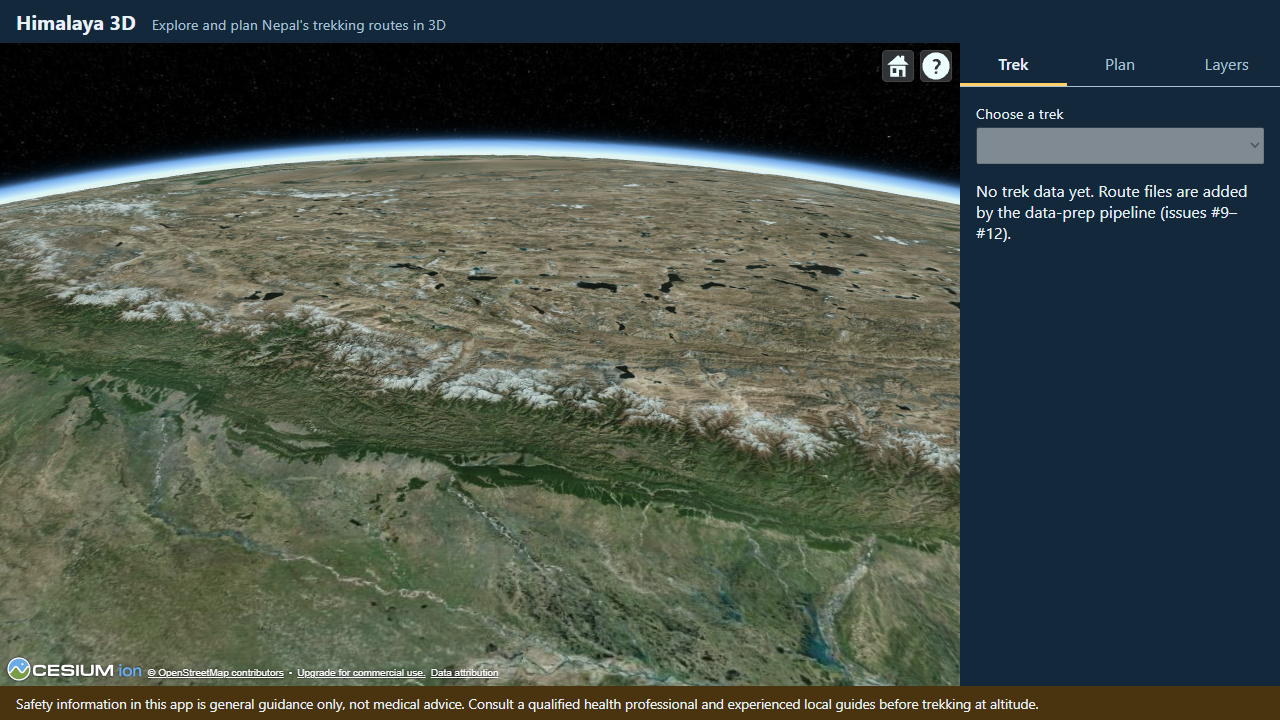
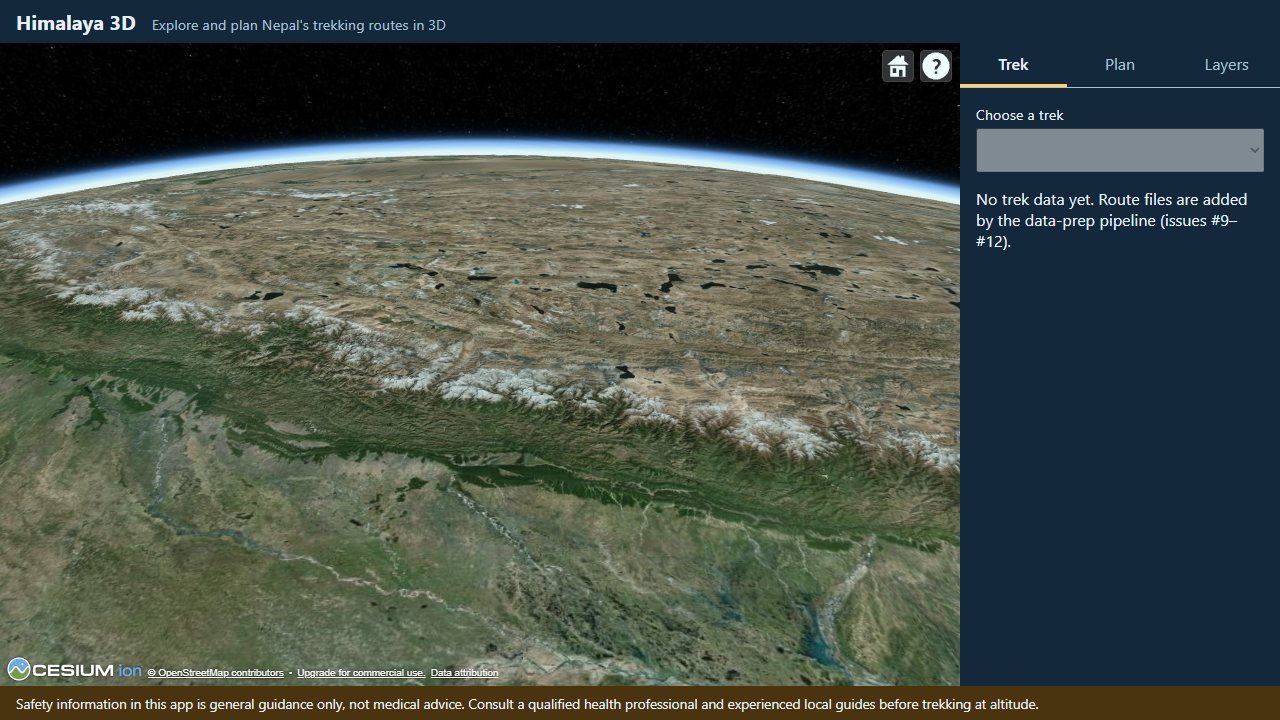
fix(ui): apply review — newest-request check, tab tests, touch targets
- useRoutes: number every select() call and use only the newest answer. Comparing
  trek ids let both downloads through when the same trek was chosen again while
  the first was still running (B -> A -> B).
- e2e: hold downloads back and release them out of order; check the hidden Trek
  panel stays attached; check exactly one tab is selected and a Tab stop.
- SidePanel: panels without controls get tabIndex 0; doc comments; explain why
  panels are hidden, not removed.
- 44 px minimum height for tabs and the selector (ui-design rule 6); stop list
  without 1. 2. 3. markers (they clashed with day numbers).
- plan.comingSoon: #24 adds acclimatization warnings (the checker exists).
- e2e/screenshot.ts: wait until no tile arrived for 2 s before a docs screenshot;
  screenshots re-captured with terrain loaded.

Refs #16

Changed region(s): [[0.75, 0.2139, 1.0, 0.3361], [0.75, 0.1528, 0.8438, 0.1833], [0.75, 0.0917, 0.8438, 0.1222]]

diff --git a/app/e2e/trek-selector.spec.ts b/app/e2e/trek-selector.spec.ts
@@ -10,6 +10,7 @@
 import { readFileSync } from 'node:fs';
 import { fileURLToPath } from 'node:url';
 import { expect, test, type Page } from '@playwright/test';
+import { saveScreenshot } from './screenshot';
 
 const fixture = (name: string) =>
   readFileSync(fileURLToPath(new URL(`./fixtures/${name}`, import.meta.url)), 'utf-8');
@@ -52,7 +53,9 @@ test('choose another trek with the keyboard; the stop list and globe follow', as
   const selector = page.getByLabel('Choose a trek');
   await expect(selector.getByRole('option')).toHaveText(['Test Route', 'Second Test Route']);
   await selector.focus();
-  await page.keyboard.press('ArrowDown'); // a closed native <select> changes on ArrowDown
+  // On Windows and Linux (CI), ArrowDown on a closed native <select> changes its value at once.
+  // (On macOS it opens the pop-up list instead; our tests run Chromium on Windows and Linux.)
+  await page.keyboard.press('ArrowDown');
 
   await expect(selector).toHaveValue('second-route');
   await expect(status).toHaveText(
@@ -67,9 +70,7 @@ test('choose another trek with the keyboard; the stop list and globe follow', as
   await expect(status).toHaveAttribute('data-drawn-stops', '3', { timeout: 30_000 });
 
   if (process.env.UPDATE_SCREENSHOTS === '1') {
-    await page.waitForLoadState('networkidle');
-    await page.waitForTimeout(2500); // let the 1.5 s camera flight to the route finish
-    await page.screenshot({ path: SCREENSHOT });
+    await saveScreenshot(page, SCREENSHOT);
   }
 
   // Back to the first trek: it comes from the cache, so it is not downloaded a second time.
@@ -101,6 +102,57 @@ test('a trek that fails to load clears the map instead of showing the old trek',
   await expect(status).toHaveAttribute('data-drawn-stops', '2', { timeout: 30_000 });
 });
 
+test('a download that finishes late never replaces the newest choice', async ({ page }) => {
+  await serveFixtures(page);
+  // Hold every request for second-route.geojson until the test calls its release function.
+  // (Playwright uses the route registered LAST first, so this one wins over serveFixtures.)
+  const held: (() => void)[] = [];
+  await page.route('**/data/routes/second-route.geojson', async (route) => {
+    await new Promise<void>((release) => held.push(release));
+    await route.fulfill({
+      contentType: 'application/geo+json',
+      body: fixture('second-route.geojson'),
+    });
+  });
+  /** Release held download number `n` and give the app time to (wrongly) use the answer. */
+  const answer = async (n: number) => {
+    const response = page.waitForResponse('**/second-route.geojson');
+    held[n]();
+    await response;
+    await page.waitForTimeout(500);
+  };
+
+  await page.goto('./');
+  const status = page.getByTestId('route-status');
+  const selector = page.getByLabel('Choose a trek');
+  await expect(status).toHaveAttribute('data-drawn-stops', '2', { timeout: 30_000 });
+
+  await selector.selectOption('second-route'); // download 0 starts (held)
+  await expect.poll(() => held.length).toBe(1);
+  await selector.selectOption('test-route'); // cached: shown at once
+  await selector.selectOption('second-route'); // the same trek again: download 1 (held)
+  await expect.poll(() => held.length).toBe(2);
+  await expect(status).toHaveText('Loading treks…');
+
+  // The OLD download answers first. Its trek id matches the selection, but it is not the newest
+  // request, so it must be ignored: the app keeps waiting for download 1.
+  await answer(0);
+  await expect(status).toHaveText('Loading treks…');
+  await expect(status).toHaveAttribute('data-drawn-stops', '0');
+
+  // The user goes back to Test Route, THEN download 1 answers: it must not take over the map.
+  await selector.selectOption('test-route');
+  await expect(status).toHaveAttribute('data-drawn-stops', '2', { timeout: 30_000 });
+  await answer(1);
+  await expect(status).toContainText('Showing Test Route');
+  await expect(status).toHaveAttribute('data-drawn-stops', '2');
+
+  // The late answers were still cached, so choosing the trek now needs no third download.
+  await selector.selectOption('second-route');
+  await expect(status).toHaveAttribute('data-drawn-stops', '3', { timeout: 30_000 });
+  expect(held).toHaveLength(2);
+});
+
 test('side-panel tabs follow the WAI-ARIA tabs pattern', async ({ page }) => {
   await serveFixtures(page);
   await page.goto('./');
@@ -116,16 +168,21 @@ test('side-panel tabs follow the WAI-ARIA tabs pattern', async ({ page }) => {
   await expect(tab('Plan')).toHaveAttribute('tabindex', '-1');
 
   await tab('Trek').focus();
+  /** `name` is focused and selected, its panel shows, and it is the ONLY selected tab stop. */
   const expectSelected = async (name: string) => {
     await expect(tab(name)).toBeFocused();
     await expect(tab(name)).toHaveAttribute('aria-selected', 'true');
     await expect(page.getByRole('tabpanel', { name })).toBeVisible();
+    await expect(tablist.locator('[aria-selected="true"]')).toHaveCount(1);
+    await expect(tablist.locator('[tabindex="0"]')).toHaveCount(1);
   };
 
   await page.keyboard.press('ArrowRight');
   await expectSelected('Plan');
   await expect(page.getByRole('tabpanel', { name: 'Plan' })).toContainText('issue #24');
-  await expect(page.getByRole('tabpanel', { name: 'Trek' })).toBeHidden();
+  // The Trek panel is hidden but still in the page (aria-controls must point at something).
+  await expect(page.locator('#panel-trek')).toBeAttached();
+  await expect(page.locator('#panel-trek')).toBeHidden();
 
   await page.keyboard.press('End');
   await expectSelected('Layers');
@@ -136,10 +193,16 @@ test('side-panel tabs follow the WAI-ARIA tabs pattern', async ({ page }) => {
   await page.keyboard.press('Home');
   await expectSelected('Trek');
 
-  // The Trek panel kept its state while hidden (it is hidden, not removed).
   await expect(page.getByTestId('route-status')).toContainText('Showing Test Route');
 
   // Tab leaves the tab row and goes into the panel, to the trek selector.
   await page.keyboard.press('Tab');
   await expect(page.getByLabel('Choose a trek')).toBeFocused();
+
+  // A panel with no controls (Plan) is itself the next Tab stop, so its text is not skipped.
+  await page.keyboard.press('Shift+Tab');
+  await page.keyboard.press('ArrowRight');
+  await expectSelected('Plan');
+  await page.keyboard.press('Tab');
+  await expect(page.getByRole('tabpanel', { name: 'Plan' })).toBeFocused();
 });

diff --git a/app/src/features/routes/useRoutes.ts b/app/src/features/routes/useRoutes.ts
@@ -3,10 +3,11 @@
  * Owner: Sparsh Gorkhali (loading), Dipson Gurung (trek selector, #16). Related FR: FR2.
  *
  * - On start-up it downloads data/routes/index.json and selects the first route.
- * - select(id) is called by the trek selector: it takes that route from the cache if it was
- *   shown before, otherwise it clears the map and downloads it.
- * - If the user picks another route before a download finishes, the late answer is ignored, so
- *   the map always shows the route that is selected in the list.
+ * - select(id) is called by the trek selector: if that route file was downloaded before it comes
+ *   from the cache; otherwise the map is cleared and the file is downloaded.
+ * - Every select() call gets a number. Only the answer to the NEWEST call is used, so a download
+ *   that finishes late (the user has chosen something else since) never replaces what is on the
+ *   map, even when the user chose the same trek again in between (ADR-026).
  */
 import { useCallback, useEffect, useRef, useState } from 'react';
 import { fetchRoute, fetchRouteIndex, type RouteSummary } from './loadRoutes';
@@ -26,6 +27,10 @@ export interface RoutesState {
   select: (id: string) => void;
 }
 
+/**
+ * Loads the route index, selects the first route, and lets the trek selector choose another.
+ * App calls it once and passes the result to RouteLayer (the globe) and TrekPanel (the panel).
+ */
 export function useRoutes(): RoutesState {
   const [status, setStatus] = useState<RoutesStatus>('loading');
   const [routes, setRoutes] = useState<RouteSummary[]>([]);
@@ -34,10 +39,14 @@ export function useRoutes(): RoutesState {
 
   // useRef keeps values between renders without causing a re-render when they change.
   const cache = useRef(new Map<string, RouteFile>()); // route files already downloaded
-  const latestRequest = useRef<string | null>(null); // the id the user asked for last
+  const latestRequest = useRef(0); // number of the newest select() call
 
+  // useCallback with [] keeps `select` the SAME function on every render. That matters because
+  // the effect below lists it as a dependency (the hooks lint rule requires that): a new function
+  // each render would re-run the effect and download the index again and again.
   const select = useCallback((id: string) => {
-    latestRequest.current = id;
+    const request = latestRequest.current + 1;
+    latestRequest.current = request;
     setSelectedId(id);
 
     const cached = cache.current.get(id);
@@ -57,18 +66,20 @@ export function useRoutes(): RoutesState {
         // Check the file's shape HERE, inside try: if it were only discovered while rendering,
         // the error would blank the whole page (including the medical disclaimer).
         routeDrawing(file, 'en');
-        cache.current.set(id, file);
-        if (latestRequest.current !== id) return; // the user has picked another route since
+        cache.current.set(id, file); // a good file is worth keeping even if it arrived late
+        if (latestRequest.current !== request) return; // a newer select() call has happened
         setCurrent(file);
         setStatus('ready');
       } catch (error) {
         console.error(`Could not load route ${id}`, error);
-        if (latestRequest.current === id) setStatus('error');
+        if (latestRequest.current === request) setStatus('error');
       }
     }
     void load();
   }, []);
 
+  // Runs once after the first render (twice in development, where React's StrictMode mounts,
+  // cleans up and mounts again to find missing cleanups; the `cancelled` flag makes that safe).
   useEffect(() => {
     let cancelled = false; // set by the cleanup, so a late answer after unmount is ignored
     fetchRouteIndex()
@@ -84,7 +95,7 @@ export function useRoutes(): RoutesState {
       });
     return () => {
       cancelled = true;
-      latestRequest.current = null; // also ignore any route download still running
+      latestRequest.current += 1; // also ignore any route download still running
     };
   }, [select]);
 

diff --git a/app/src/ui/SidePanel.tsx b/app/src/ui/SidePanel.tsx
@@ -7,7 +7,13 @@
  *   aria-controls pointing at its panel; each panel has role="tabpanel" and aria-labelledby;
  * - only the selected tab is reachable with the Tab key (tabIndex 0, the others -1); inside the
  *   row, ArrowLeft/ArrowRight move between tabs (wrapping round) and Home/End jump to the ends
- *   (see tabKeys.ts). Moving with the keys also selects the tab ("automatic activation").
+ *   (see tabKeys.ts). Moving with the keys also selects the tab ("automatic activation");
+ * - a panel with no control of its own (today Plan and Layers) gets tabIndex 0, so Tab from its
+ *   tab still lands somewhere and a screen reader reads the panel.
+ *
+ * Panels that are not selected are HIDDEN (the `hidden` attribute), not removed: every tab's
+ * aria-controls must point at an element that exists, and a panel keeps its state (for example
+ * a half-filled form) while the user looks at another tab.
  */
 import { useRef, useState, type KeyboardEvent, type ReactNode } from 'react';
 import type { MessageKey } from '../i18n';
@@ -18,6 +24,8 @@ export interface PanelTab {
   id: 'trek' | 'plan' | 'layers';
   labelKey: MessageKey;
   content: ReactNode;
+  /** True if the panel starts with a control (select, button…) that Tab can reach. */
+  hasControls: boolean;
 }
 
 interface SidePanelProps {
@@ -25,6 +33,7 @@ interface SidePanelProps {
   language: Language;
 }
 
+/** The tab row plus one panel per tab; remembers which tab is selected. */
 export function SidePanel({ tabs, language }: SidePanelProps) {
   const [selected, setSelected] = useState(0);
   const buttons = useRef<(HTMLButtonElement | null)[]>([]);
@@ -71,6 +80,7 @@ export function SidePanel({ tabs, language }: SidePanelProps) {
           role="tabpanel"
           id={`panel-${tab.id}`}
           aria-labelledby={`tab-${tab.id}`}
+          tabIndex={tab.hasControls ? undefined : 0}
           hidden={index !== selected}
           className="tab-panel"
         >

diff --git a/app/e2e/screenshot.ts b/app/e2e/screenshot.ts
@@ -1,0 +1,34 @@
+/**
+ * screenshot.ts — helper for the e2e tests that save docs screenshots (only with UPDATE_SCREENSHOTS=1).
+ * Owner: Sparsh Gorkhali (testing lead). Related: ADR-015.
+ *
+ * Cesium keeps downloading terrain and imagery tiles after the camera moves. A screenshot taken
+ * too early shows a blurry, flat globe. Playwright's waitForLoadState('networkidle') does not
+ * help here: once the page has been idle a single time it returns at once, even if the camera
+ * flight has started new downloads since. So we watch the responses ourselves.
+ */
+import type { Page } from '@playwright/test';
+
+/**
+ * Wait until the page has received no network response for `quietMs` milliseconds,
+ * but never longer than `maxMs` in total (so a busy network cannot hang the test).
+ */
+export async function waitForQuietNetwork(page: Page, quietMs = 2000, maxMs = 30_000) {
+  let lastResponse = Date.now();
+  const onResponse = () => {
+    lastResponse = Date.now();
+  };
+  page.on('response', onResponse);
+  const start = Date.now();
+  while (Date.now() - lastResponse < quietMs && Date.now() - start < maxMs) {
+    await page.waitForTimeout(250);
+  }
+  page.off('response', onResponse);
+}
+
+/** Let the 1.5 s camera flight finish, wait for the tiles it asked for, then save the picture. */
+export async function saveScreenshot(page: Page, path: string) {
+  await page.waitForTimeout(2000);
+  await waitForQuietNetwork(page);
+  await page.screenshot({ path });
+}

diff --git a/app/src/features/routes/TrekPanel.tsx b/app/src/features/routes/TrekPanel.tsx
@@ -27,6 +27,7 @@ function statusText(routes: RoutesState, language: Language): string {
   return t('routes.showing', language, { name: drawing.name, count: drawing.stops.length });
 }
 
+/** The Trek tab: trek selector, status line and the selected trek's overnight stops. */
 export function TrekPanel({ routes, language, drawnStops }: TrekPanelProps) {
   const stops = routes.current ? splitRoute(routes.current).stops : [];
 
@@ -54,6 +55,8 @@ export function TrekPanel({ routes, language, drawnStops }: TrekPanelProps) {
       {stops.length > 0 && (
         <>
           <h2 className="panel-heading">{t('stops.heading', language)}</h2>
+          {/* An ordered list, but without the 1. 2. 3. markers: they would clash with the day
+              numbers ("3. Day 4 …"). Screen readers still announce it as a list. */}
           <ol className="stop-list">
             {stops.map((stop) => (
               <li key={stop.properties.id}>

diff --git a/app/src/ui/App.tsx b/app/src/ui/App.tsx
@@ -32,9 +32,20 @@ export function App() {
       id: 'trek',
       labelKey: 'tabs.trek',
       content: <TrekPanel routes={routes} language={LANGUAGE} drawnStops={drawnStops} />,
+      hasControls: true,
     },
-    { id: 'plan', labelKey: 'tabs.plan', content: <p>{t('plan.comingSoon', LANGUAGE)}</p> },
-    { id: 'layers', labelKey: 'tabs.layers', content: <p>{t('layers.comingSoon', LANGUAGE)}</p> },
+    {
+      id: 'plan',
+      labelKey: 'tabs.plan',
+      content: <p>{t('plan.comingSoon', LANGUAGE)}</p>,
+      hasControls: false,
+    },
+    {
+      id: 'layers',
+      labelKey: 'tabs.layers',
+      content: <p>{t('layers.comingSoon', LANGUAGE)}</p>,
+      hasControls: false,
+    },
   ];
 
   return (

diff --git a/app/e2e/routes.spec.ts b/app/e2e/routes.spec.ts
@@ -9,6 +9,7 @@
 import { readFileSync } from 'node:fs';
 import { fileURLToPath } from 'node:url';
 import { expect, test } from '@playwright/test';
+import { saveScreenshot } from './screenshot';
 
 const fixture = (name: string) =>
   readFileSync(fileURLToPath(new URL(`./fixtures/${name}`, import.meta.url)), 'utf-8');
@@ -36,9 +37,7 @@ test('shows the selected route and counts its stops (synthetic fixture)', async 
   });
 
   if (process.env.UPDATE_SCREENSHOTS === '1') {
-    await page.waitForLoadState('networkidle');
-    await page.waitForTimeout(2500); // let the 1.5 s camera flight to the route finish
-    await page.screenshot({ path: SCREENSHOT });
+    await saveScreenshot(page, SCREENSHOT);
   }
 });
 

diff --git a/app/src/ui/styles.css b/app/src/ui/styles.css
@@ -101,6 +101,7 @@ body,
 
 .tab {
   flex: 1;
+  min-height: 44px; /* touch target, ui-design rule 6 */
   padding: 0.6rem 0.5rem;
   border: 0;
   border-bottom: 3px solid transparent;
@@ -135,6 +136,7 @@ body,
 }
 
 .field select {
+  min-height: 44px; /* touch target, ui-design rule 6 */
   padding: 0.4rem;
   font: inherit;
 }
@@ -146,7 +148,8 @@ body,
 
 .stop-list {
   margin: 0;
-  padding-left: 1.25rem;
+  padding-left: 0;
+  list-style: none;
   font-size: 0.9rem;
   line-height: 1.6;
 }

diff --git a/app/e2e/fixtures/README.md b/app/e2e/fixtures/README.md
@@ -1,6 +1,12 @@
 # e2e/fixtures/
 
 Synthetic test data for the Playwright tests. **Not real trek data**: the names say "Test", the
-positions are round numbers near 85 °E 28 °N, and the altitudes are made up. The tests serve these
+positions are round numbers near 85–86 °E 27.5–28 °N, and the altitudes are made up. The tests serve these
 files in place of `data/routes/` (with `page.route`), so drawing can be tested before real routes
 exist. Never copy anything from here into `data/routes/`.
+
+| File                   | Route                     | Stops                  |
+| ---------------------- | ------------------------- | ---------------------- |
+| `index.json`           | lists both routes below   |                        |
+| `test-route.geojson`   | Test Route (85 °E)        | A, B (days 1, 2)       |
+| `second-route.geojson` | Second Test Route (86 °E) | C, D, E (days 1, 2, 4) |
